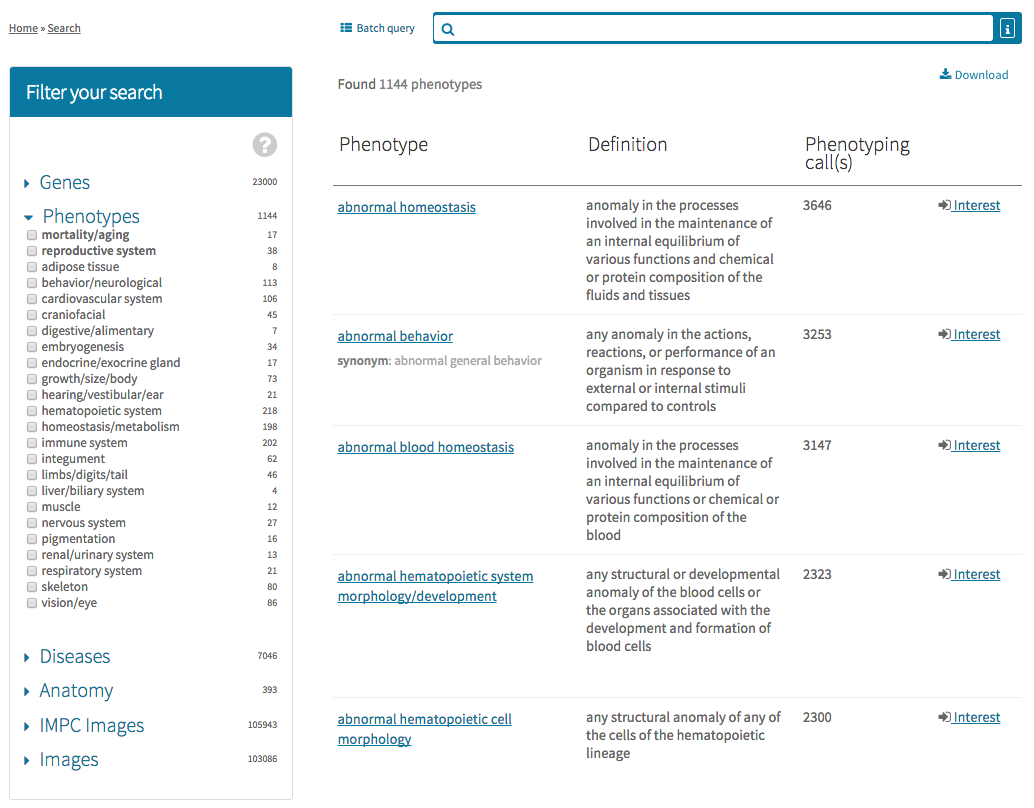
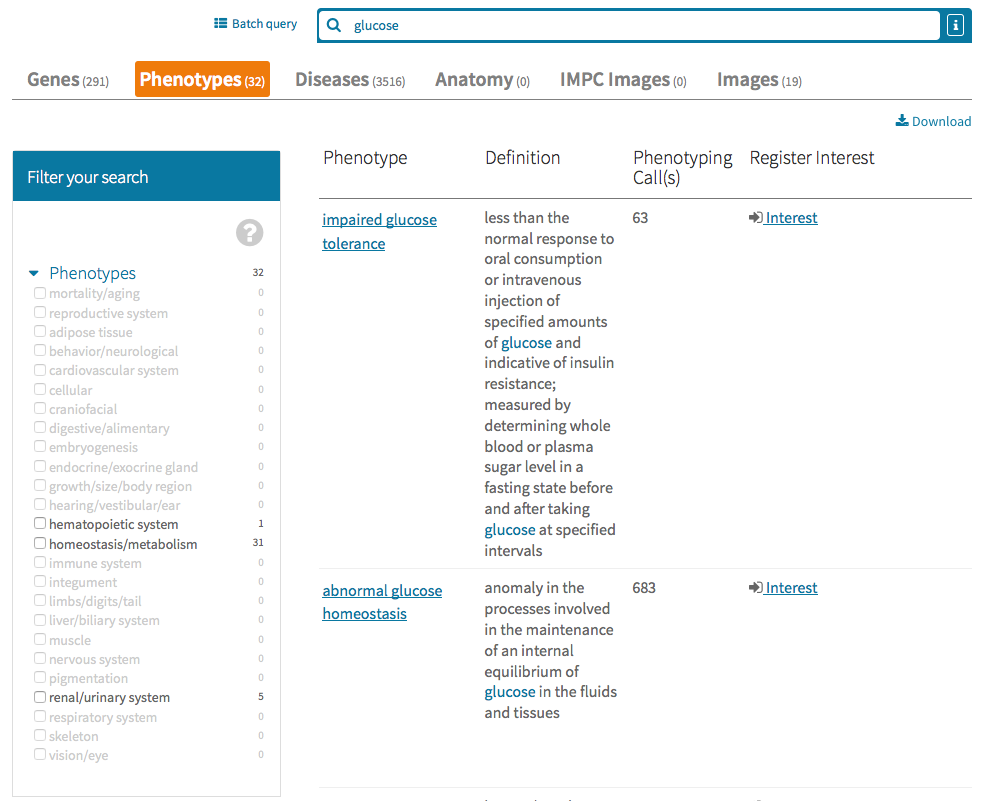
updated for new search documentation

diff --git a/web/src/main/webapp/resources/js/searchAndFacet/breadcrumbSearchBox.js b/web/src/main/webapp/resources/js/searchAndFacet/breadcrumbSearchBox.js
@@ -178,7 +178,9 @@ $(document).ready(function () {
 			});
 		},
 		focus: function (event, ui) {
-			this.value = $(ui.item.label).text().replace(/<\/?span>|^\w* : /g,'');
+			var thisInput = $(ui.item.label).text().replace(/<\/?span>|^\w* : /g,'');
+			this.value = '"' + thisInput.trim() + '"';  // double quote value when mouseover or KB UP.DOWN a dropdown list
+
 			event.preventDefault(); // Prevent the default focus
 									// behavior.
 		},
@@ -207,8 +209,8 @@ $(document).ready(function () {
 				var fqStr = facet2Fq[facet];
 
 				// we are choosing value from drop-down list so need to double quote the value for SOLR query
-				document.location.href = baseUrl + '/search/' + facet  + '?' + "kw=\"" + q + "\"&fq=" + fqStr;
-
+				//document.location.href = baseUrl + '/search/' + facet  + '?' + "kw=\"" + q + "\"&fq=" + fqStr;
+				document.location.href = baseUrl + '/search/' + facet  + '?' + "kw=" + q + "&fq=" + fqStr;
 				// prevents escaped html tag displayed in input box
 				event.preventDefault(); return false;
 

diff --git a/web/src/main/webapp/resources/js/searchAndFacet/searchAndFacetConfig.js b/web/src/main/webapp/resources/js/searchAndFacet/searchAndFacetConfig.js
@@ -240,7 +240,7 @@ config.facetParams = {
 		                   'embryo_data_available'],
 		solrCoreName: 'gene',			 
 		tableCols: 3, 	
-		tableHeader: "<thead><th>Gene</th><th>Production Status</th><th>Phenotype Status</th><th></th></thead>",		
+		tableHeader: "<thead><th>Gene</th><th>Production Status</th><th>Phenotype Status</th><th></th></thead>",
 		fq: '*:*',
 		//fq: 'marker_type:* -marker_type:"heritable phenotypic marker"',//undefined,
 		//fq: 'marker_type:* -marker_type:"heritable phenotypic marker" (production_center:* AND phenotyping_center:*)',//undefined,

diff --git a/web/src/main/java/uk/ac/ebi/phenotype/util/SearchConfig.java b/web/src/main/java/uk/ac/ebi/phenotype/util/SearchConfig.java
@@ -282,8 +282,8 @@ public class SearchConfig {
 
 
     private void setGridColumns(){
-        List<String> geneCols = Arrays.asList(new String[]{"Gene", "Production Status", "Phenotype Status", ""});
-        List<String> mpCols = Arrays.asList(new String[]{"Phenotype", "Definition", "Phenotyping<br>Call(s)", ""});
+        List<String> geneCols = Arrays.asList(new String[]{"Gene", "Production Status", "Phenotype Status", "Register Interest"});
+        List<String> mpCols = Arrays.asList(new String[]{"Phenotype", "Definition", "Phenotyping<br>Call(s)", "Register Interest"});
         List<String> diseaseCols = Arrays.asList(new String[]{"Disease", "Source", "Curated Genes", "Candidate Genes<br>by phenotype"});
         List<String> maCols = Arrays.asList(new String[]{"Anatomy"});
         List<String> impc_imagesCols = Arrays.asList(new String[]{"Name", "Images"});
